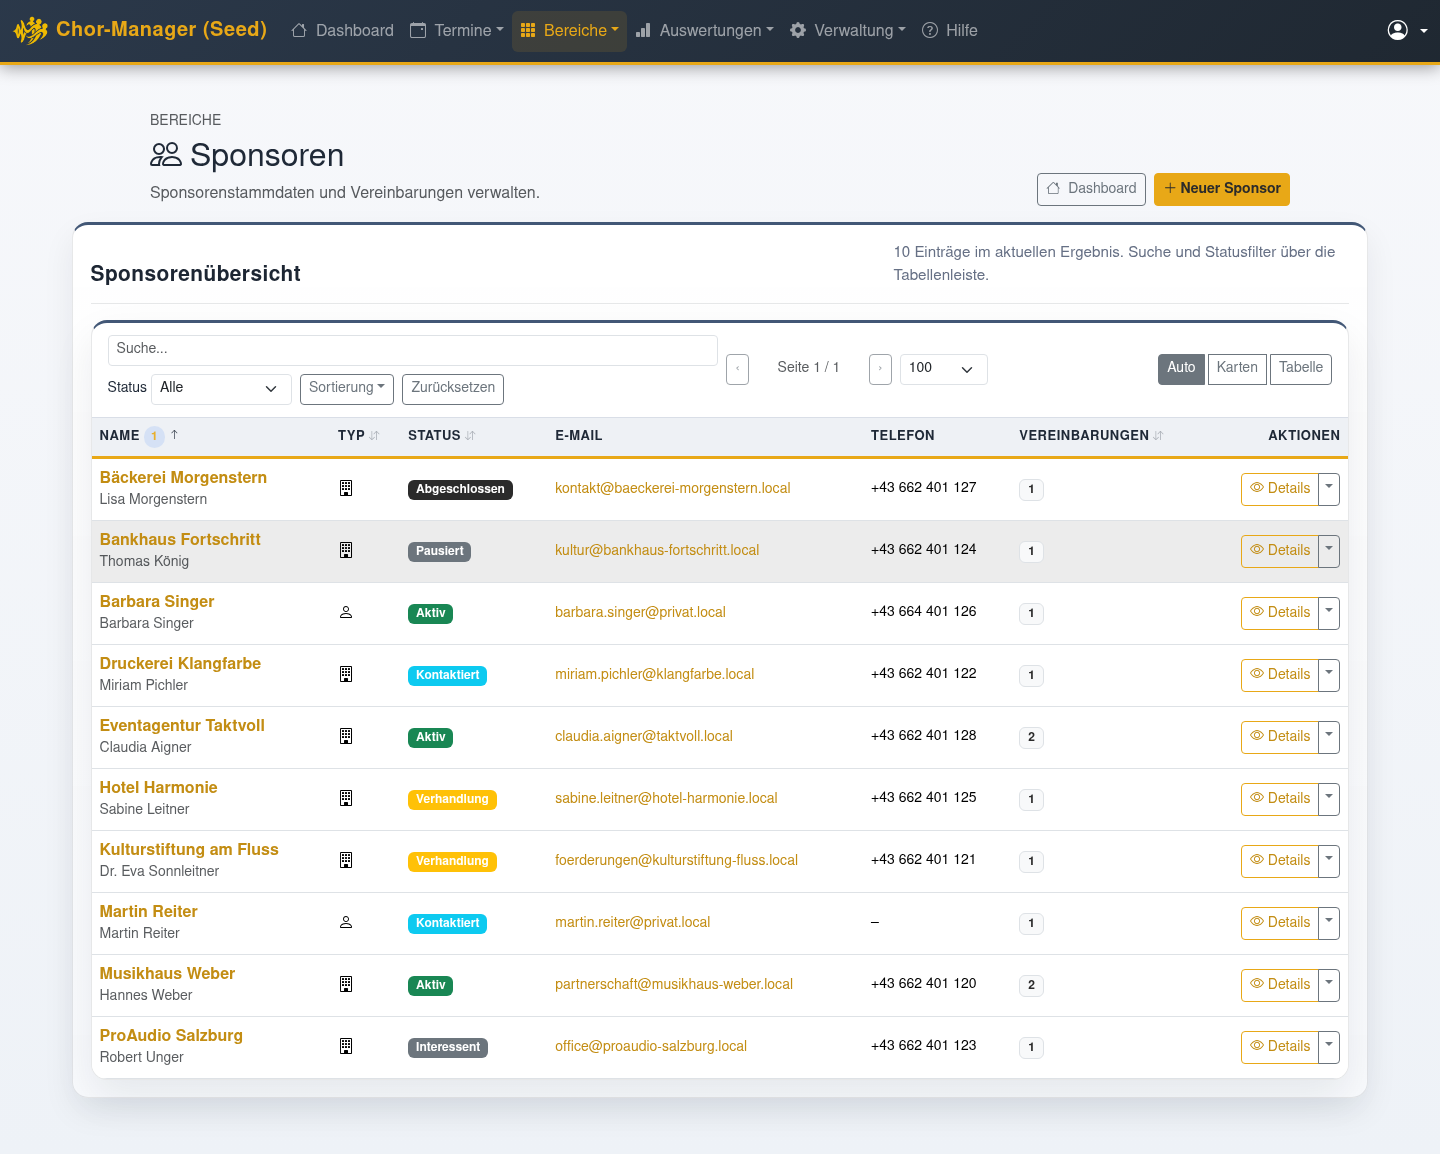
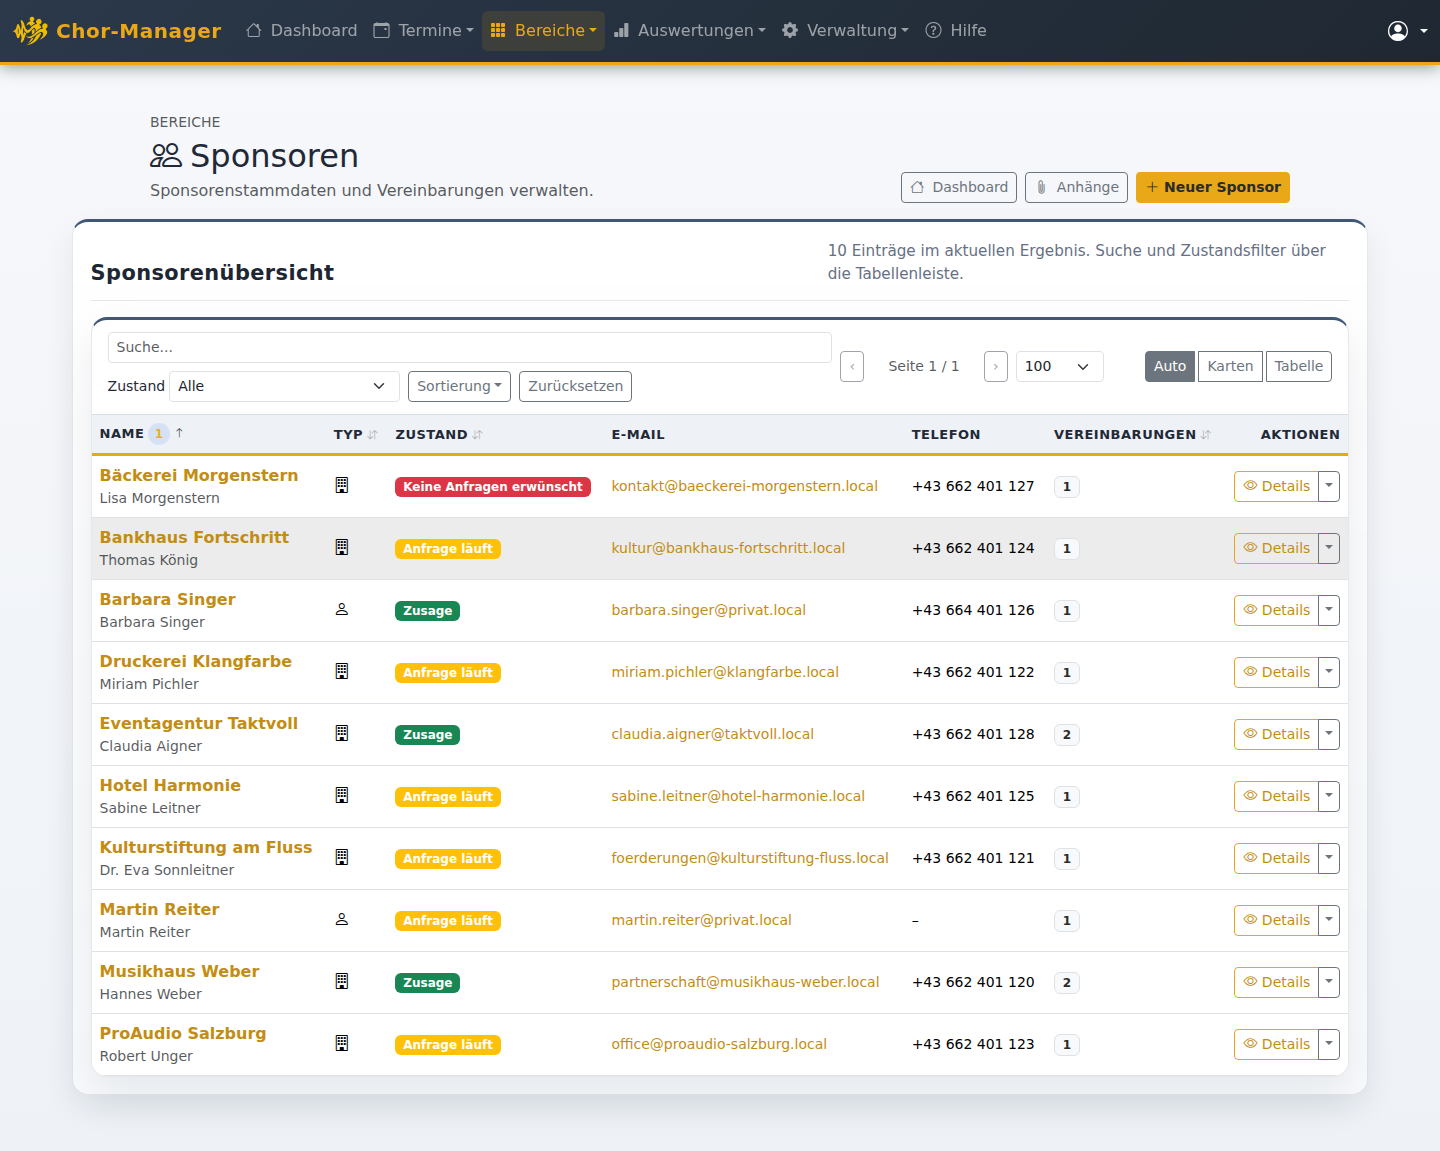
Sponsoring-Hilfe auf den neuen Stand bringen
Die Screenshots zeigten noch das alte Statusfeld am Sponsor und die sechs
Status der Vereinbarung. Alle neu aufgenommen, dazu ein zusätzliches Bild der
zentralen Anhangsammlung; das Aufnahmeskript deckt sie jetzt mit ab.

Im Text heißt die Spalte der Sponsorenliste "Zustand" statt "Status" - sie
zeigt keinen gepflegten Wert mehr, sondern was sich aus den Vereinbarungen
ergibt.

Claude-Session: https://claude.ai/code/session_019eVBemSqf4MK9gD8CW4JCf

diff --git a/help/sponsoring/scripts/screenshot.js b/help/sponsoring/scripts/screenshot.js
@@ -165,6 +165,11 @@ async function main() {
         await page.locator('#sponsorPackagesTable').waitFor({ state: 'visible' });
         await shot(page, '09-packages');
 
+        // 10. Zentrale Anhangsammlung
+        await page.goto(`${BASE_URL}/sponsoring/attachments`, { waitUntil: 'networkidle' });
+        await page.locator('#sponsoringAttachmentsTable').waitFor({ state: 'visible' });
+        await shot(page, '10-attachments');
+
         console.log('Fertig: alle Sponsoring-Screenshots erstellt.');
     } finally {
         await browser.close();

diff --git a/help/sponsoring/docs/sponsoring-sponsors.md b/help/sponsoring/docs/sponsoring-sponsors.md
@@ -54,6 +54,8 @@ Wechsle zum Reiter **Kontakthistorie**, um alle bisherigen Kontakte mit dem Spon
 
 Über **Anhänge** im Kopf der Seite kommst du zu einer Liste aller Dateien aus dem Sponsoring – Verträge und Angebote aus den Vereinbarungen sowie Logos und Unterlagen aus den Stammdaten. Dort suchst, sortierst und lädst du sie herunter, ohne dich vorher durch die einzelnen Sponsoren klicken zu müssen.
 
+![Zentrale Anhangsammlung](images/sponsoring/10-attachments.png)
+
 ## Häufige Stolperfallen
 
 - **Name ist Pflicht** und darf maximal 255 Zeichen lang sein.
